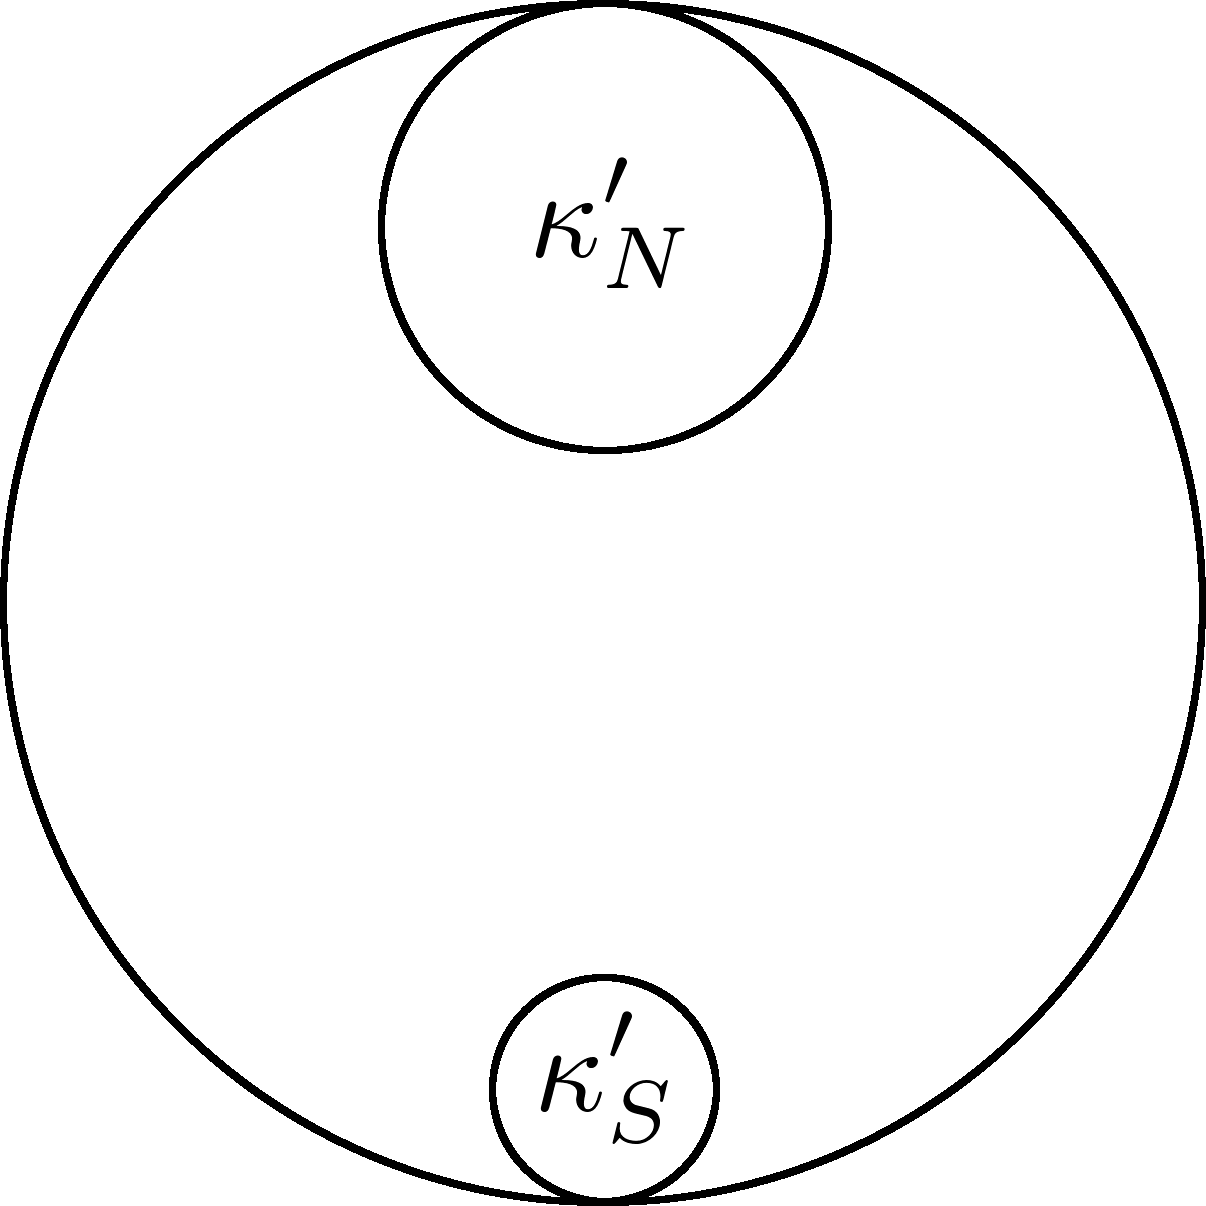
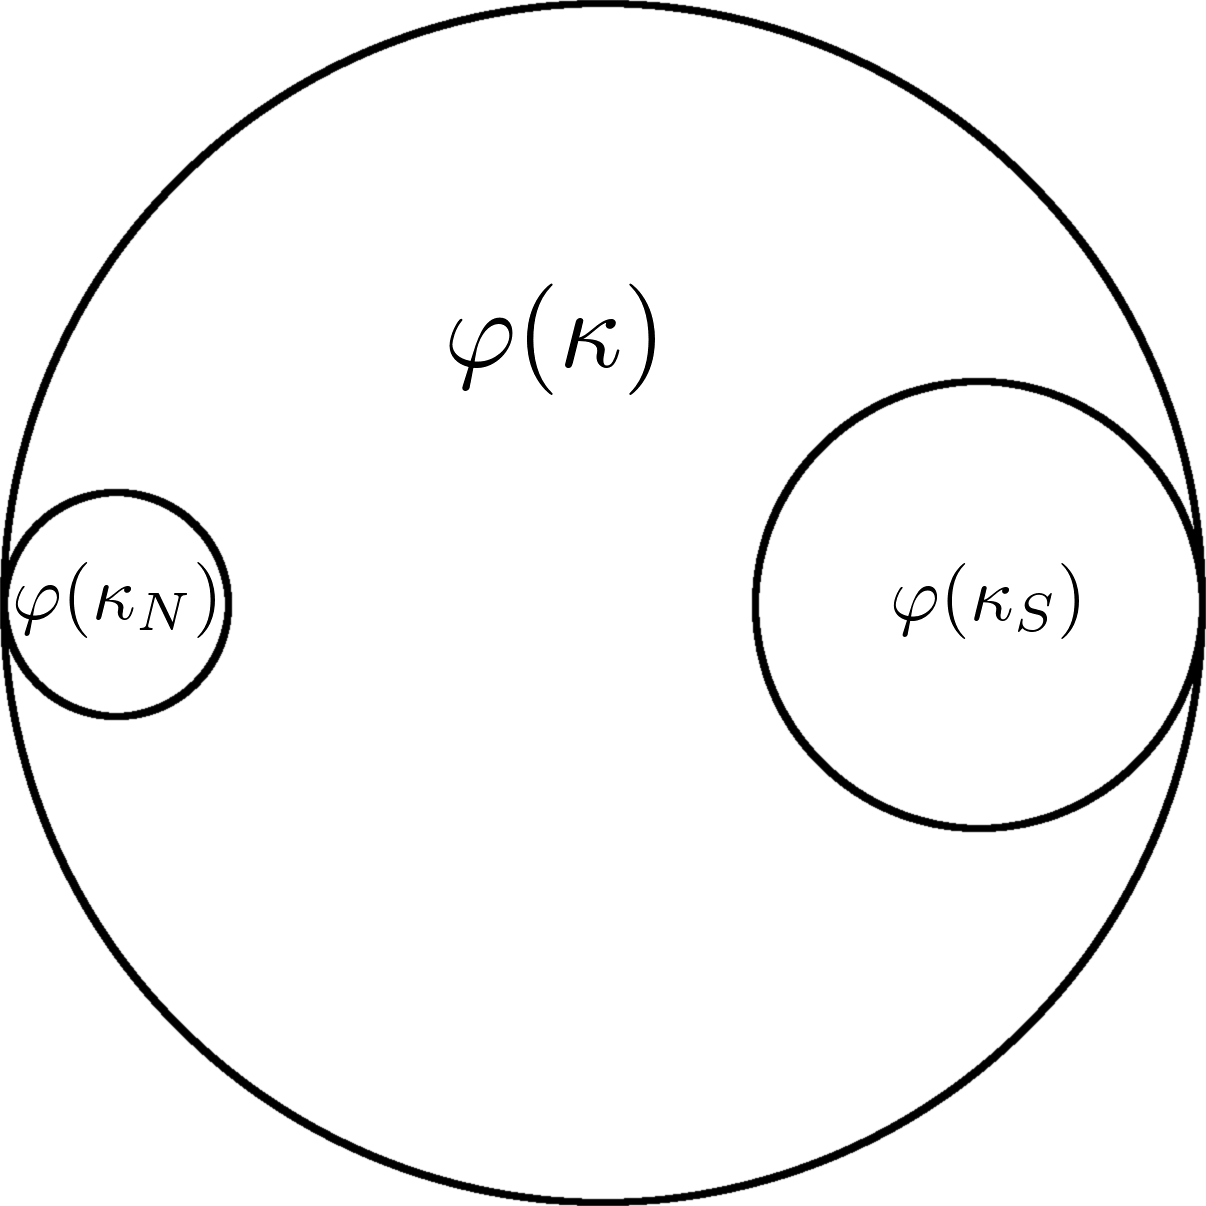
new figures, edits to reock

diff --git a/arxiv_paper/reock.tex b/arxiv_paper/reock.tex
@@ -9,11 +9,7 @@ $$\mathrm{Reock}(\Omega)=
 
 In words, it is the ratio of the area of the region to the area of the
 smallest circle containing that region, and it is equal to one if and
-only if $\Omega$ is a circle.  We can observe that
-$\mathrm{CH}(\Omega)\geq \mathrm{Reock}(\Omega)$, since the convex
-hull of a region is never larger than the smallest bounding circle.
-This relation holds with equality if and only if the convex hull of
-$\Omega$ is a circle.  
+only if $\Omega$ is a circle.  
 
 Since $\mathrm{Reock}(\Omega)=1$ if and only if $\Omega$ is a circle,
 we can observe that any candidate $\vphi$ for a map projection 
@@ -21,28 +17,11 @@ which preserves the ordering of Reock scores must, at the
 very least, preserve the maximizeres in the ordering, meaning 
 it sends caps on the sphere to circles in the plane.  
 
-By Theorem~\ref{thm:stereographic_mobius}, it follows that 
-we can assume that $\vphi=R\circ M \circ \psi$, 
-where $R$ is a reflection, $M$ is a M\"{o}bius 
-transformation, and $\psi$ is the standard 
-stereographic projection. However, we note that reflections do not 
-change any compactness scores, so we only need 
-to deal with $M\circ \psi$.
+By Theorem~\ref{thm:stereographic_mobius}, we know that any projection which sends every cap on the sphere to a 
+circle in the plane is the composition of the stereographic projection with a M\"obius transformation of the plane and possibly a reflection.  Equivalently, we can realize any such projection as a M\"obius transformation of the \textit{sphere} followed by the stereographic projection.  On the sphere, all of the transformations which generate the  M\"obius transformations preserve Reock scores and therefore the ordering of regions induced by these scores. 
 
-We now treat the M\"{o}bius transformation composition 
-in the following manner:
-\begin{claim}
-  There exists a rigid transformation of the 
-  sphere, $T_M$, such that $M\psi = T_M\psi$.
-\end{claim}
-This follows by writing $T_M$
+If we can show that the stereographic projection does not preserve Reock scores, then it cannot be the case that any map projection does so, because the stereographic projection will distort the ordering, no M\"obius transformation can correct this distortion, and no other transformation can either, since this would cause some cap to be sent to a non-circle.
 
-In other words, to show that $M\psi$ 
-does not preserve Reock score rankings 
-in some region $U$, it suffices to show that 
-$\psi$ does not preserve Reock score 
-rankings in the transformed region 
-$T(U)$.
 
 \begin{theorem}\label{thm:reock}
   Let $A$ be a region on the sphere.  Then there exist two regions
@@ -80,12 +59,20 @@ $$0< \left(\tan(\theta_N) - \tan(\theta_N-\theta_D)\right) - \left( \tan(\theta_
  or equivalently,
  $$\tan(\theta_N) + \tan(\theta_S) >   \tan(\theta_N-\theta_D) + \tan(\theta_S+\theta_D). $$
 
-This inequality follows from the fact that $\tan(\theta)$ is convex on the relevant interval, $0<\theta<\tfrac{\pi}{2}$\footnote{Equivalently, since $\tan(\theta)$ is differentiable, we can observe that the second derivative of $\tan(\theta)$ is positive on this interval.}
+This inequality follows from the fact that $\tan(\theta)$ is convex on the relevant interval, \footnote{Equivalently, since $\tan(\theta)$ is differentiable, we can observe that the second derivative of $\tan(\theta)$ is positive on this interval.} $0<\theta<\tfrac{\pi}{2}$.
 
 Since  the diameter of $\varphi(\kappa_N)$ is strictly {greater} than that of $\varphi(\kappa_S)$, we have the same relation on their areas.  This implies that the area of $\varphi(\kappa_N')$ is smaller than that of $\varphi(\kappa_S')$, and therefore has a worse Reock score in the plane. 
    
   
 \end{proof}
+
+
+\begin{figure}[h]
+	\centering
+	\includegraphics[width=.3\textwidth]{figs/differentkappa.png}
+	\caption{The images in the plane of the three caps $\kappa$, $\kappa_N$, and $\kappa_S$.}
+	\label{fig:reock_schema}
+\end{figure}
 
 Piecing this together yields:
 \begin{theorem}

diff --git a/arxiv_paper/convex.tex b/arxiv_paper/convex.tex
@@ -11,6 +11,13 @@ define this score function.
 
 
 
+\begin{figure}[h]
+	\centering
+	\includegraphics[width=.5\textwidth]{figs/ch_example.png}
+	\caption{A region $\Omega$ and its convex hull.}
+	\label{fig:ch_example}
+\end{figure}
+
 \begin{definition}
   Let $\mathrm{conv}(\Omega)$ denote the \textit{convex hull} of
   a region $\Omega$ in either the sphere or the plane, which is the
@@ -42,6 +49,16 @@ We begin by observing that such a projection must preserve certain geometric pro
 		for $\vphi^{-1}$ for all pairs of regions inside of $\vphi(U)$.
 	\end{enumerate}
 \end{lemma}
+
+\begin{figure}[h]
+	\centering
+	\includegraphics[width=.25\textwidth]{figs/ch_sphere_schema.png}
+	\caption{Two equal area regions $A$ and $B$ removed from $U$.}
+	\label{fig:ch_schema}
+\end{figure}
+
+
+
 \begin{proof}
 	\ \\
 	
@@ -62,7 +79,7 @@ We begin by observing that such a projection must preserve certain geometric pro
 		
 		
 		
-\item[] To show (3), let our region $U\subset\Omega$ be a cap, without loss of generality.  Take $A,B$ to be regions of equal area such that $A$ and $B$ are properly contained in the interior of $U$.  Define two new regions $X=U\ssm A$ and $Y=U\ssm B$, i.e. these regions are equal to $U$ with $A$ or $B$ deleted, respectively.  
+\item[] To show (3), let our region $U\subset\Omega$ be a cap, without loss of generality.  Take $A,B$ to be regions of equal area such that $A$ and $B$ are properly contained in the interior of $U$, as in \Cref{fig:ch_schema}.  Define two new regions $X=U\ssm A$ and $Y=U\ssm B$, i.e. these regions are equal to $U$ with $A$ or $B$ deleted, respectively.  
 
 The cap $U$ is itself the convex hull of both $X$ and $Y$, and since $A$ and $B$ have equal area, we have that $\mathrm{CH}(X) = \mathrm{CH}(Y)$.  Since $U$ is a cap, it is convex, so by (1), $\vphi(U)$ is also convex.  Since $\vphi$ preserves the ordering of convex hull scores and $X$ and $Y$ had equal scores on the sphere, $\vphi$ must send $X$ and $Y$ to regions in the plane which also have the same convex hull score.  Furthermore, the convex hulls of $\vphi(X)$ and $\vphi(Y)$ are $\vphi(U)$.
 

diff --git a/arxiv_paper/stereo.tex b/arxiv_paper/stereo.tex
@@ -148,7 +148,7 @@ This gives us the desired characterization.
   the plane which preserves circles, so by the previous lemma, 
   $M^{-1}$ is a M\"{o}bius transformation composed with a reflection. 
   Then, we can write $\psi= M\varphi$, which is the
-  composition of the stereographic projection and a scaled isometry.
+  composition of the stereographic projection and a M\"obius transformation.
 \end{proof}
 
 
